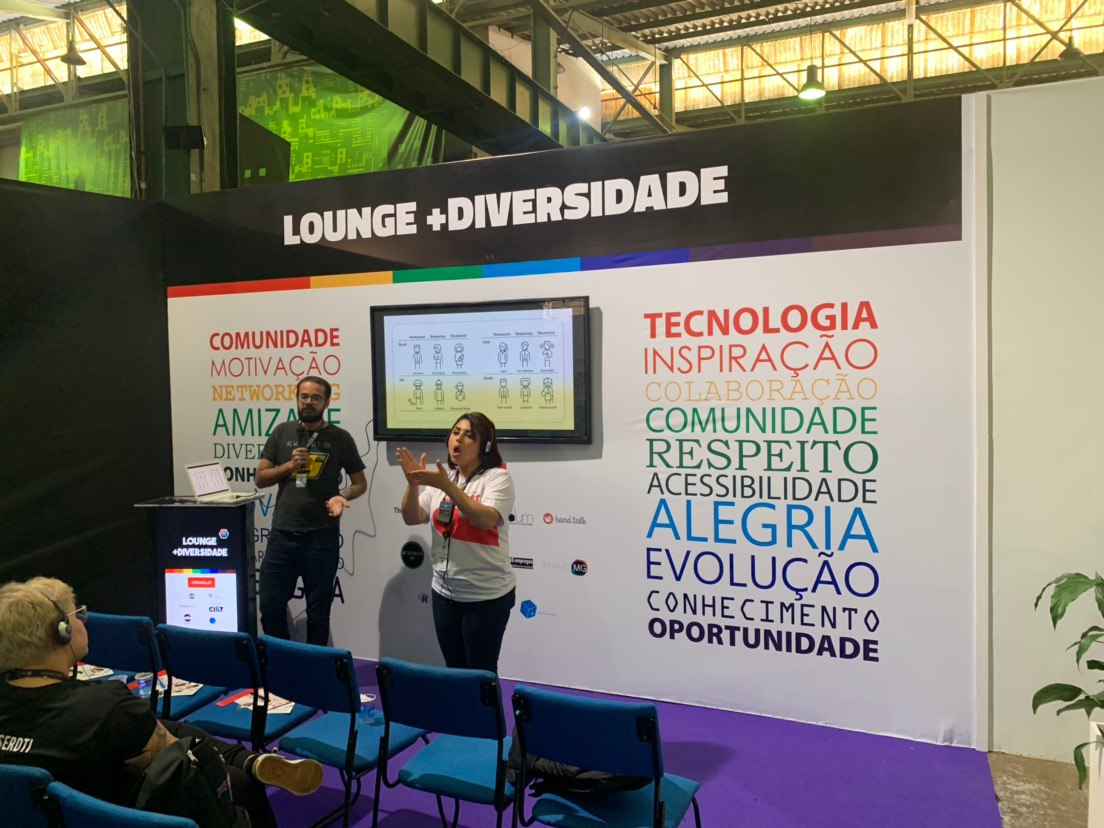
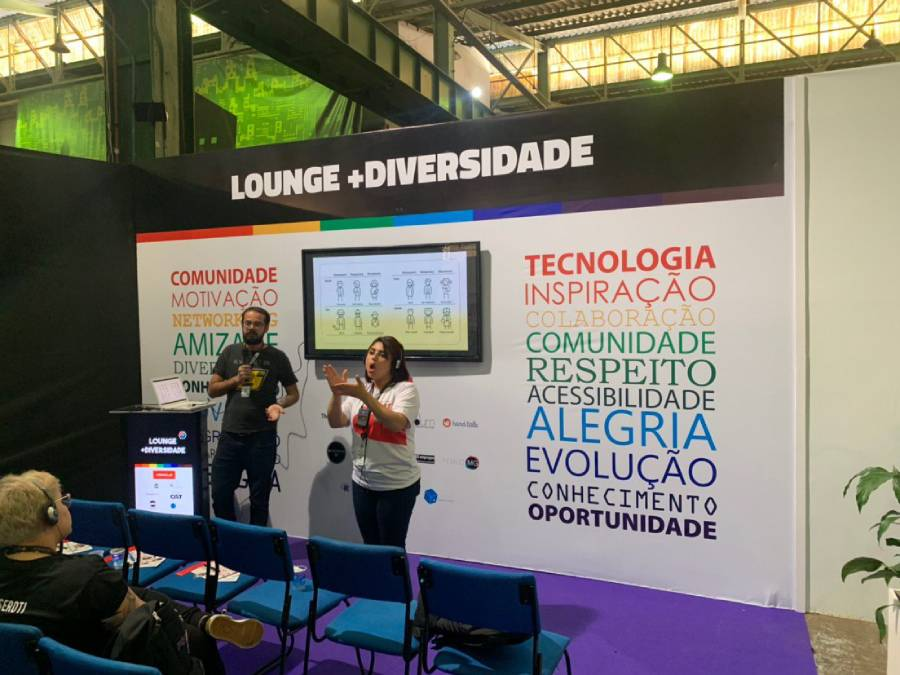
feat(image): add image to post

diff --git a/_posts/2019-06-17-review-tdc-bh-2019.md b/_posts/2019-06-17-review-tdc-bh-2019.md
@@ -71,7 +71,9 @@ Assisti uma live no YouTube e o conteúdo foi bastante rico e incentivador.
 Lembro de escrever a proposta e pensar que não iria ser aprovada -- bateu uma síndrome de impostor na hora (rs)!
 Confesso que fiquei extremamente feliz, por receber a notícia que o tema da minha palestra tinha sido escolhido para o evento.
 
-O processo para enviar a palestra foi muito organizado e o tempo de resposta também. Meu tema foi: <span lang="en">Always bet on a11y</span> em uma tradução literal “Sempre aposte em acessibilidade”, onde expus sobre as vantagens de sempre apostar e abraçar os padrões web e como eles podem melhorar a interação entre os usuários e os negócios das empresas. 
+O processo para enviar a palestra foi muito organizado e o tempo de resposta também. Meu tema foi: <span lang="en">Always bet on a11y</span> em uma tradução literal “Sempre aposte em acessibilidade”, onde expus sobre as vantagens de sempre apostar e abraçar os padrões web e como eles podem melhorar a interação entre os usuários e os negócios das empresas.
+
+![Bruno Pulis segurando o microfone com uma camisa preta, com o logo do Javascript no monitor da apresentação uma imagem explicando os tipos de deficiências existentes](/img/posts/tdc/palestra-always-bet-on-a11y.jpg)
 
 Você pode consultar a minha palestra no Speaker Deck. Além da minha palestra, o TDC cordialmente deu alguns brindes para os palestrantes.
 
